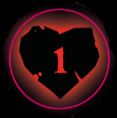
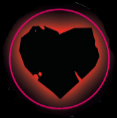
Add hero placeholder and wounds tracker

Changed region(s): [[0.4359, 0.3814, 0.5897, 0.6356]]

diff --git a/app.js b/app.js
@@ -1,10 +1,9 @@
 const { createApp } = Vue
 
-
 createApp({
   data() {
     return {
-      hero: 'houndmaster',
+      hero: '',
       level: 1,
       trinkets: ['', '', ''],
       abilities: [-1, -1, -1, -1, -1],
@@ -12,7 +11,9 @@ createApp({
       disease: '',
       affliction: '',
       quirks: ['', '', ''],
-      // TODO: health, xp, buffs
+      wounds: 0,
+      xp: 0,
+      buffs: 0,
 
       // options
       heroesPool: Object.keys(heroes),
@@ -33,12 +34,13 @@ createApp({
 
   computed: {
     abilitiesPool() {
-      return heroes[this.hero].abilities;
+      return this.hero == '' ? [] : heroes[this.hero].abilities;
     },
 
     heroCard() {
-      const card = heroes[this.hero].cardSprite[this.level - 1];
+      if (this.hero == '') return {};
 
+      const card = heroes[this.hero].cardSprite[this.level - 1];
       return {
         backgroundImage: `url('img/${this.hero}/${card.url}')`,
         backgroundPosition: `${card.x} ${card.y}`,
@@ -46,26 +48,21 @@ createApp({
       };
     },
     diseaseCard() {
-      if (this.disease === '') {
-        return {};
-      }
-      const index = diseases.indexOf(this.disease);
+      if (this.disease == '') return {};
 
       return {
         backgroundImage: 'url(img/game/diseases.png)',
-        backgroundPosition: this.position(index, 10, 7),
+        backgroundPosition: this.position(diseases.indexOf(this.disease), 10, 7),
         backgroundSize: '1000%',
       };
     },
     afflictionCard() {
-      if (this.affliction === '') {
-        return {};
-      }
+      if (this.affliction == '') return {};
+
       const indexAff = afflictions.indexOf(this.affliction);
       const indexVir = virtues.indexOf(this.affliction);
       const index = Math.max(indexAff, indexVir);
       const sprite = indexAff > -1 ? 'afflictions' : 'virtues';
-
       return {
         backgroundImage: `url(img/game/${sprite}.png)`,
         backgroundPosition: this.position(index, 10, 7),
@@ -80,16 +77,25 @@ createApp({
       const y = Math.floor(index / x_n) * 100 / (y_n - 1);
       return `${x}% ${y}%`
     },
+    // TODO: trinketCard
+    trinketCard(trinket) {
+      if (trinket == '') return {};
+
+      const index = trinket * 3 + this.abilitiesLevels[trinket] - 1;
+      const x_n = heroes[this.hero].abilitiesSize[0]
+      const y_n = heroes[this.hero].abilitiesSize[1]
+      return {
+        backgroundImage: `url('img/${this.hero}/abilities.png')`,
+        backgroundSize: `${x_n * 100}%`,
+        backgroundPosition: this.position(index, x_n, y_n),
+      };
+    },
     abilityCard(ability) {
-      if (ability == -1) {
-        return {
-          boxShadow: 'none'
-        };
-      }
+      if (ability == -1) return { boxShadow: 'none' };
+
       const index = ability * 3 + this.abilitiesLevels[ability] - 1;
       const x_n = heroes[this.hero].abilitiesSize[0]
       const y_n = heroes[this.hero].abilitiesSize[1]
-
       return {
         backgroundImage: `url('img/${this.hero}/abilities.png')`,
         backgroundSize: `${x_n * 100}%`,
@@ -97,14 +103,12 @@ createApp({
       };
     },
     quirkCard(quirk) {
-      if (quirk === '') {
-        return {};
-      }
+      if (quirk == '') return {};
+
       const indexNeg = negatives.indexOf(quirk);
       const indexPos = positives.indexOf(quirk);
       const index = Math.max(indexNeg, indexPos);
       const sprite = indexNeg > -1 ? 'negatives' : 'positives';
-
       return {
         backgroundImage: `url(img/game/${sprite}.png)`,
         backgroundPosition: this.position(index, 10, 7),
@@ -112,16 +116,37 @@ createApp({
       };
     },
 
-    // TODO save, load, export and import game
+    // export and import game
     saveGame() {
       const hero = {
+        hero: this.hero,
+        level: this.level,
+        trinkets: this.trinkets,
+        abilities: this.abilities,
+        abilitiesLevels: this.abilitiesLevels,
+        disease: this.disease,
+        affliction: this.affliction,
+        quirks: this.quirks,
+        wounds: this.wounds,
+        xp: this.xp,
+        buffs: this.buffs,
       };
       localStorage.setItem('darkestHero', JSON.stringify(hero));
     },
     loadGame() {
       const save = JSON.parse(localStorage.getItem('darkestHero'));
-
       if (save) {
+        this.hero = save.hero || '';
+        this.level = save.level || 1;
+        this.trinkets = save.trinkets || ['', '', ''];
+        this.abilities = save.abilities || [-1, -1, -1, -1, -1];
+        this.abilitiesLevels = save.abilitiesLevels || [1, 1, 1, 1, 1, 1, 1];
+        this.disease = save.disease || '';
+        this.affliction = save.affliction || '';
+        this.quirks = save.quirks || ['', '', ''];
+        this.wounds = save.wounds || 0;
+        this.xp = save.xp || 0;
+        this.buffs = save.buffs || 0;
       }
     },
   },

diff --git a/index.css b/index.css
@@ -5,7 +5,7 @@ html {
   overflow: auto hidden;
   font-family: 'sans-serif';
   background-color: black;
-  color: yellow;
+  color: darkred;
 
   --unit: 1vh
 }
@@ -25,6 +25,10 @@ html {
   display: flex;
   justify-content: center;
   align-items: center;
+}
+
+.hero {
+  text-transform: capitalize;
 }
 
 .content {
@@ -67,7 +71,6 @@ html {
 
 .trinket {
   margin-bottom: calc(2.2 * var(--unit));
-
 }
 
 .trinket:nth-child(1) {
@@ -86,6 +89,32 @@ html {
 /* ------------ hero ------------ */
 .heroCard {
   min-width: calc(50 * var(--unit));
+  background-image: url(img/game/hero.png);
+  background-size: 100%;
+  position: relative;
+}
+
+.wounds {
+  position: absolute;
+  top: 20%;
+  right: 1%;
+  font-size: 20px;
+}
+
+.wounds input {
+  width: 100px;
+  height: 100px;
+
+  font-size: 32px;
+  text-align: center;
+  color: darkred;
+
+  border: 0;
+  background: transparent;
+  background-image: url(img/game/wounds.png);
+  background-size: 100%;
+  border-radius: 100%;
+  padding-left: 20px;
 }
 
 /* ------------ abilities ------------ */

diff --git a/index.html b/index.html
@@ -19,10 +19,10 @@
     <div id="app">
       <div class="header">
         Hero:
-        <select v-model="hero">
-          <option value="" style="display: none;">Select your Hero</option>
-          <option v-for="item in heroesPool" :value="item">
-            {{ item }}
+        <select v-model="hero" class="hero">
+          <option value="" style="display: none;">select your hero</option>
+          <option v-for="item in heroesPool" :value="item" class="hero">
+            {{ item.replaceAll('_', ' ') }}
           </option>
         </select>
 
@@ -46,7 +46,11 @@
           </div>
         </div>
 
-        <div class="heroCard" :style="heroCard"></div>
+        <div class="heroCard" :style="heroCard">
+          <div v-if="hero" class="wounds">
+            <input type="number" v-model="wounds" min="0">
+          </div>
+        </div>
 
         <div class="board">
           <div class="stress"></div>
